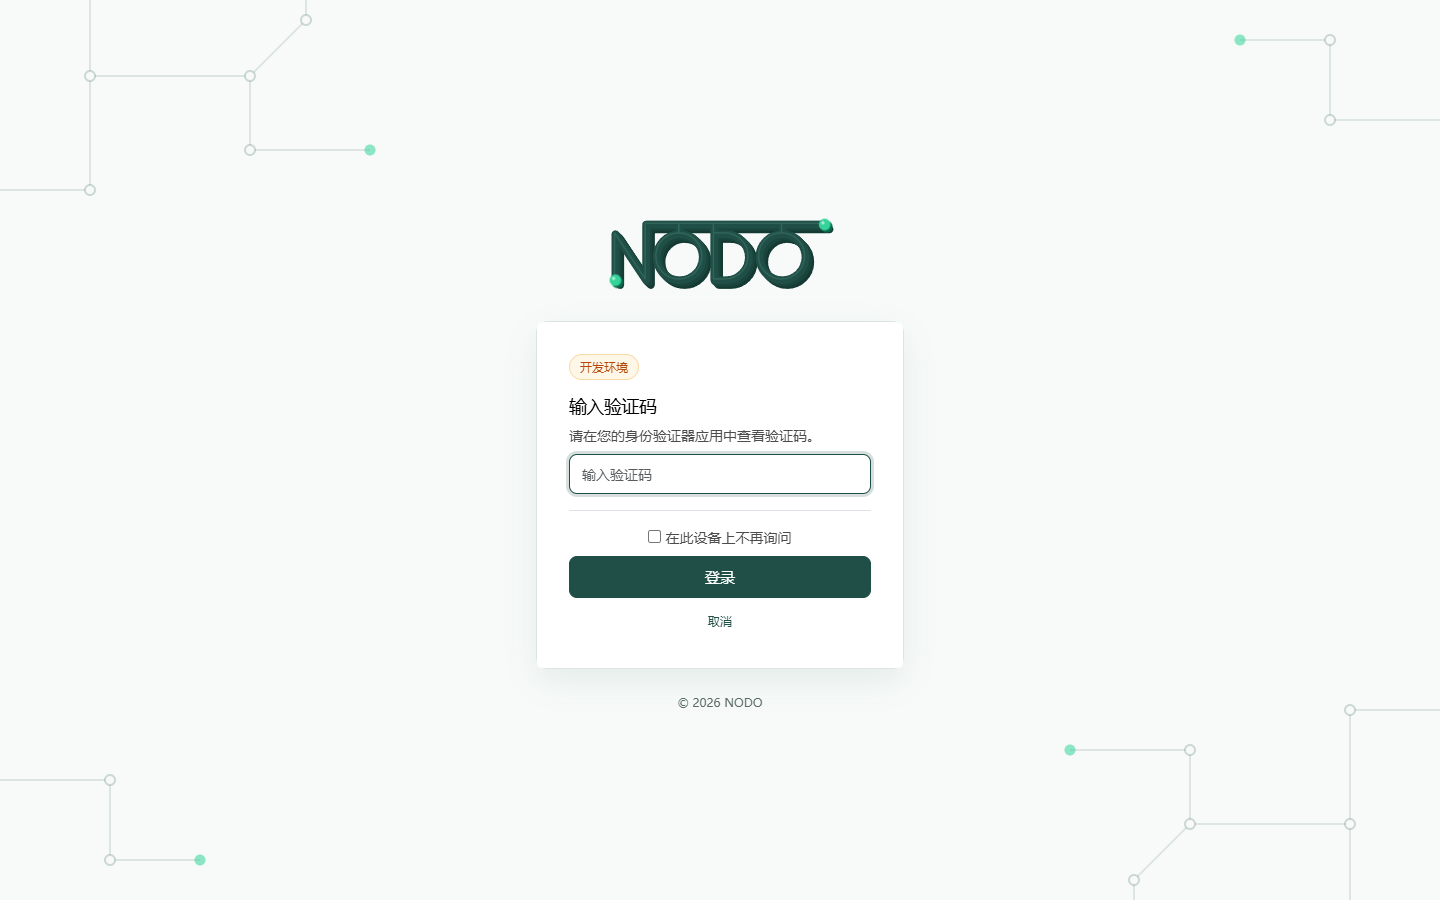
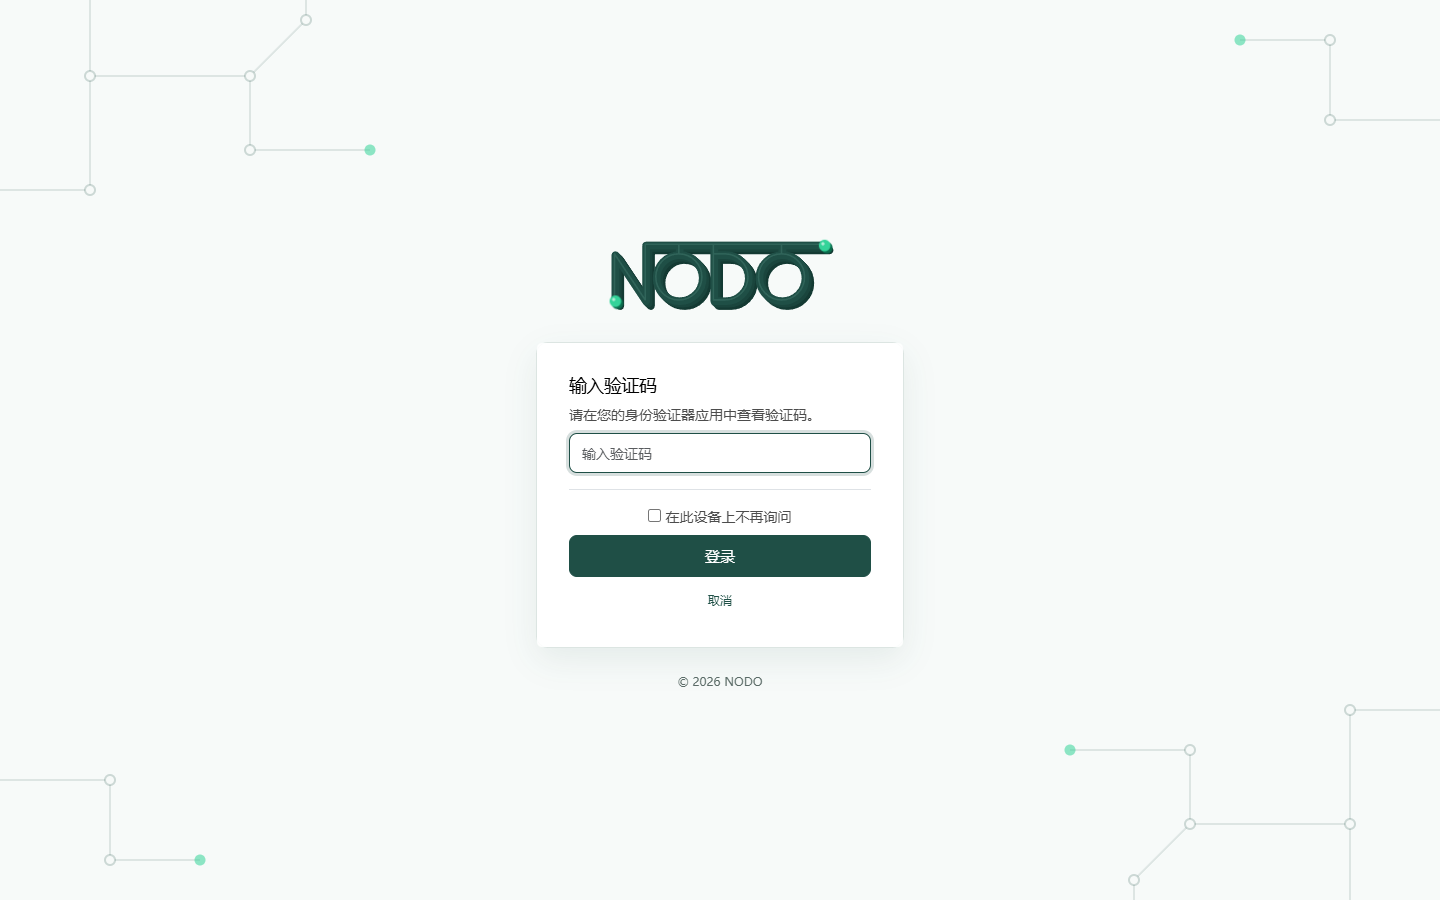
Present the login page as the finished product
Drop the environment badge so no dev or test wording ever shows. Use a
lighter welcome heading, plainer subtitle and account hint, and an
optional admin contact after the forgot-password hint through the
nodo.login_help parameter.

Keep the upstream submit guard and restyle its loading state as an
inline spinner with the text 正在登录… instead of a white overlay, and
reset the button when the page comes back from the browser cache.

Changed region(s): [[0.375, 0.3733, 0.625, 0.6844], [0.4062, 0.2178, 0.5938, 0.3422], [0.4688, 0.7467, 0.5312, 0.8089]]

diff --git a/addons/nodo_base/static/src/scss/login.scss b/addons/nodo_base/static/src/scss/login.scss
@@ -67,9 +67,10 @@ body:has(.o_nodo_login) {
     }
 
     .o_nodo_login_title {
-        font-size: 22px;
-        font-weight: 600;
-        color: $nodo-text;
+        font-size: 20px;
+        font-weight: 500;
+        line-height: 1.4;
+        color: $nodo-text !important; // 上游门户样式会把标题强制设为黑色
         margin: 0 0 4px;
     }
 
@@ -77,6 +78,36 @@ body:has(.o_nodo_login) {
         font-size: 14px;
         color: $nodo-text-muted;
         margin: 0 0 24px;
+    }
+
+    // 提交中：上游脚本给按钮加 o_btn_loading 并插入转圈；这里统一样式，把文字换成「正在登录…」
+    .oe_login_buttons .btn-primary.o_btn_loading {
+        display: inline-flex;
+        align-items: center;
+        justify-content: center;
+        gap: 8px;
+        font-size: 0;
+        opacity: 1;
+        cursor: progress;
+
+        &::after {
+            content: "正在登录…";
+            font-size: 15px;
+        }
+        // 上游把转圈做成盖住整个按钮的半透明白色遮罩；这里改为和文字并排，不加遮罩
+        .o_btn_loading_spinner {
+            position: static;
+            inset: auto;
+            display: inline-flex;
+            background: none;
+        }
+        .spinner-border {
+            width: 14px;
+            height: 14px;
+            border-width: 2px;
+            border-color: rgba(255, 255, 255, 0.4);
+            border-top-color: #FFFFFF;
+        }
     }
 
     .form-label {
@@ -155,19 +186,6 @@ body:has(.o_nodo_login) {
         background-color: $nodo-accent-soft;
         border: 1px solid #B7E4D3;
         color: $nodo-success-text;
-    }
-
-    // 非正式环境标识
-    .o_nodo_env_badge {
-        display: inline-block;
-        margin-bottom: 16px;
-        padding: 2px 10px;
-        border-radius: 999px;
-        background-color: #FEF6E7;
-        border: 1px solid #F7D9A4;
-        color: $nodo-warning-text;
-        font-size: 12px;
-        line-height: 20px;
     }
 
     .btn-primary {

diff --git a/addons/nodo_base/tests/test_login_page.py b/addons/nodo_base/tests/test_login_page.py
@@ -54,15 +54,19 @@ class TestNodoLoginPage(HttpCase):
         self.assertNotIn('/web/reset_password', self.html)
         self.assertIn('忘记密码请联系管理员', self.html)
 
-    def test_environment_badge(self):
-        ICP = self.env['ir.config_parameter'].sudo()
-        self.assertNotIn('o_nodo_env_badge', self.html)
-        ICP.set_str('nodo.environment', 'test')
+    def test_product_copy(self):
+        # 成品文案：欢迎语、通用账号提示，不出现环境字样
+        text = visible_text(self.html)
+        self.assertIn('欢迎回来', text)
+        self.assertIn('使用企业账号登录 NODO', text)
+        self.assertIn('placeholder="输入账号"', self.html)
+        for word in ('开发环境', '测试环境', 'o_nodo_env_badge'):
+            self.assertNotIn(word, self.html)
+
+    def test_login_help_contact(self):
+        self.env['ir.config_parameter'].sudo().set_str('nodo.login_help', '分机 8001')
         html = self.url_open(f'/web/login?db={self.env.cr.dbname}').text
-        self.assertIn('测试环境', html)
-        ICP.set_str('nodo.environment', 'prod')
-        html = self.url_open(f'/web/login?db={self.env.cr.dbname}').text
-        self.assertNotIn('o_nodo_env_badge', html)
+        self.assertIn('忘记密码？请联系管理员 · 分机 8001', visible_text(html))
 
     def test_default_company_logo_route_serves_nodo_wordmark(self):
         company = self.env.company

diff --git a/scripts/odoo/setup_dev_db.py b/scripts/odoo/setup_dev_db.py
@@ -39,8 +39,5 @@ env["ir.config_parameter"].set_str("report.url", "http://localhost:8069")
 env["ir.default"].set("res.partner", "lang", "zh_CN")
 env["ir.default"].set("res.partner", "tz", "Asia/Shanghai")
 
-# 登录页显示「开发环境」标识；试点和正式环境不要设置为 dev
-env["ir.config_parameter"].set_str("nodo.environment", "dev")
-
 env.cr.commit()
 print("NODO_SETUP_OK", company.name, company.country_id.code, company.currency_id.name, admin.login, admin.lang, admin.tz)

diff --git a/DESIGN.md b/DESIGN.md
@@ -43,11 +43,12 @@
 
 - 布局：字标在上，下方居中白色卡片（最大宽 400，圆角 12，边框 #DCE5E2），卡片下方一行版权。
 - 背景：#F7FAF9 上铺四角的母线和节点底纹（主色，透明度 12%–20%；少数端点用强调色），卡片后面留白；窄于 576 像素时隐藏底纹。
-- 表单：标题「登录」，副标题「使用管理员为你开通的账号」，标签「账号」「密码」，主按钮全宽。只保留账号密码登录。
-- 未配置外发邮件时关闭邮件重置密码，显示「忘记密码请联系管理员」；关闭自助注册。
+- 页面一律按成品呈现，不显示「开发」「测试」等环境字样（用户 2026-11-16 决定）。
+- 表单：标题「欢迎回来」（20 像素、中等粗细、#1E2A27），副标题「使用企业账号登录 NODO」，标签「账号」「密码」，账号提示「输入账号」，主按钮全宽。只保留账号密码登录。
+- 提交中：沿用上游防重复提交，按钮显示转圈和「正在登录…」，不加白色遮罩；浏览器返回时恢复按钮。
+- 未配置外发邮件时关闭邮件重置密码，显示「忘记密码请联系管理员」；系统参数 `nodo.login_help` 填了联系方式（如「分机 8001」）时显示「忘记密码？请联系管理员 · 分机 8001」。关闭自助注册。
 - 错误提示：浅红底 #FEF3F2、边框 #FECDCA、文字 #B42318，左侧感叹号图标；「错误的登录名/密码」改为「账号或密码不正确」，其他错误原文显示。
 - 密码框和「显示密码」按钮是一组，获得焦点时整组描主色边框。
-- 环境标识：系统参数 `nodo.environment` 为 `dev` / `test` 时，卡片顶部显示琥珀色小标签「开发环境」/「测试环境」；正式环境不设置，不显示。
 - 同一版式也用于双重验证、选择最近账号等页面，已核对。
 
 ## 2. 颜色
